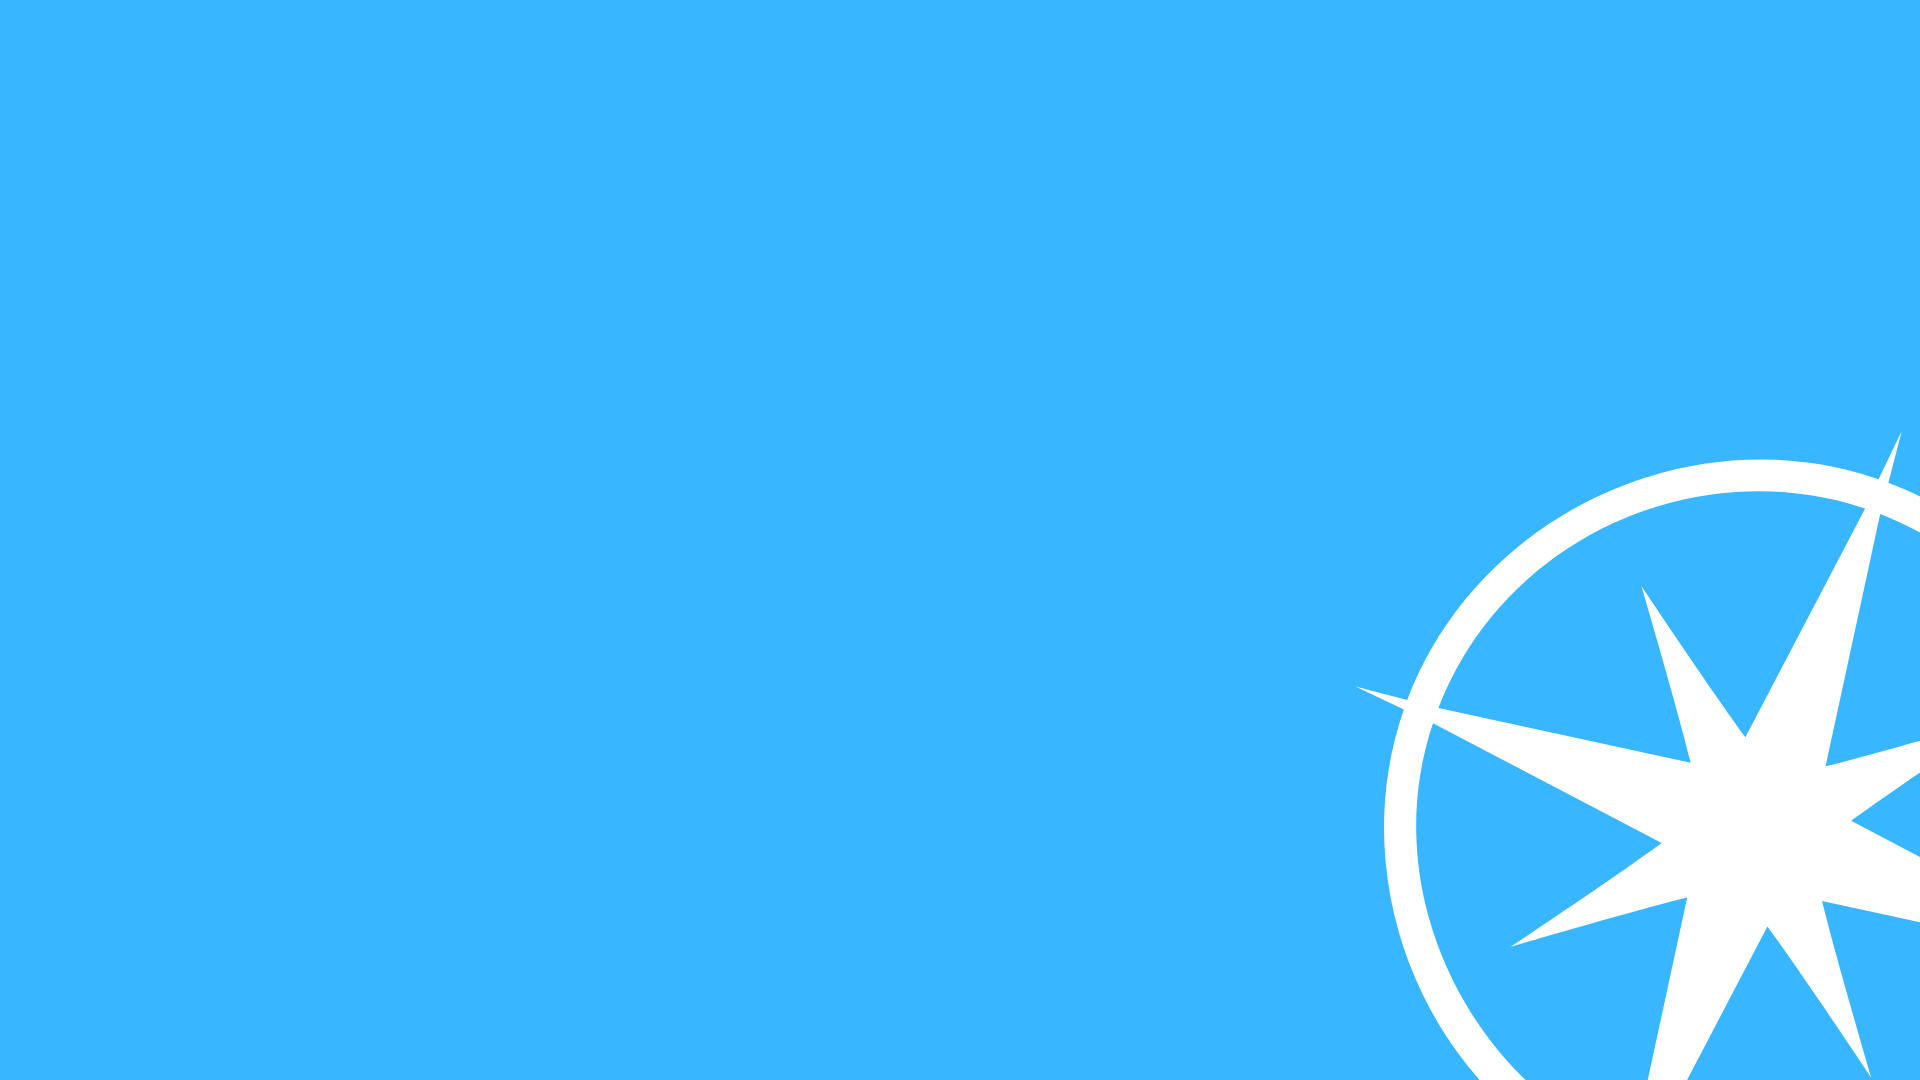
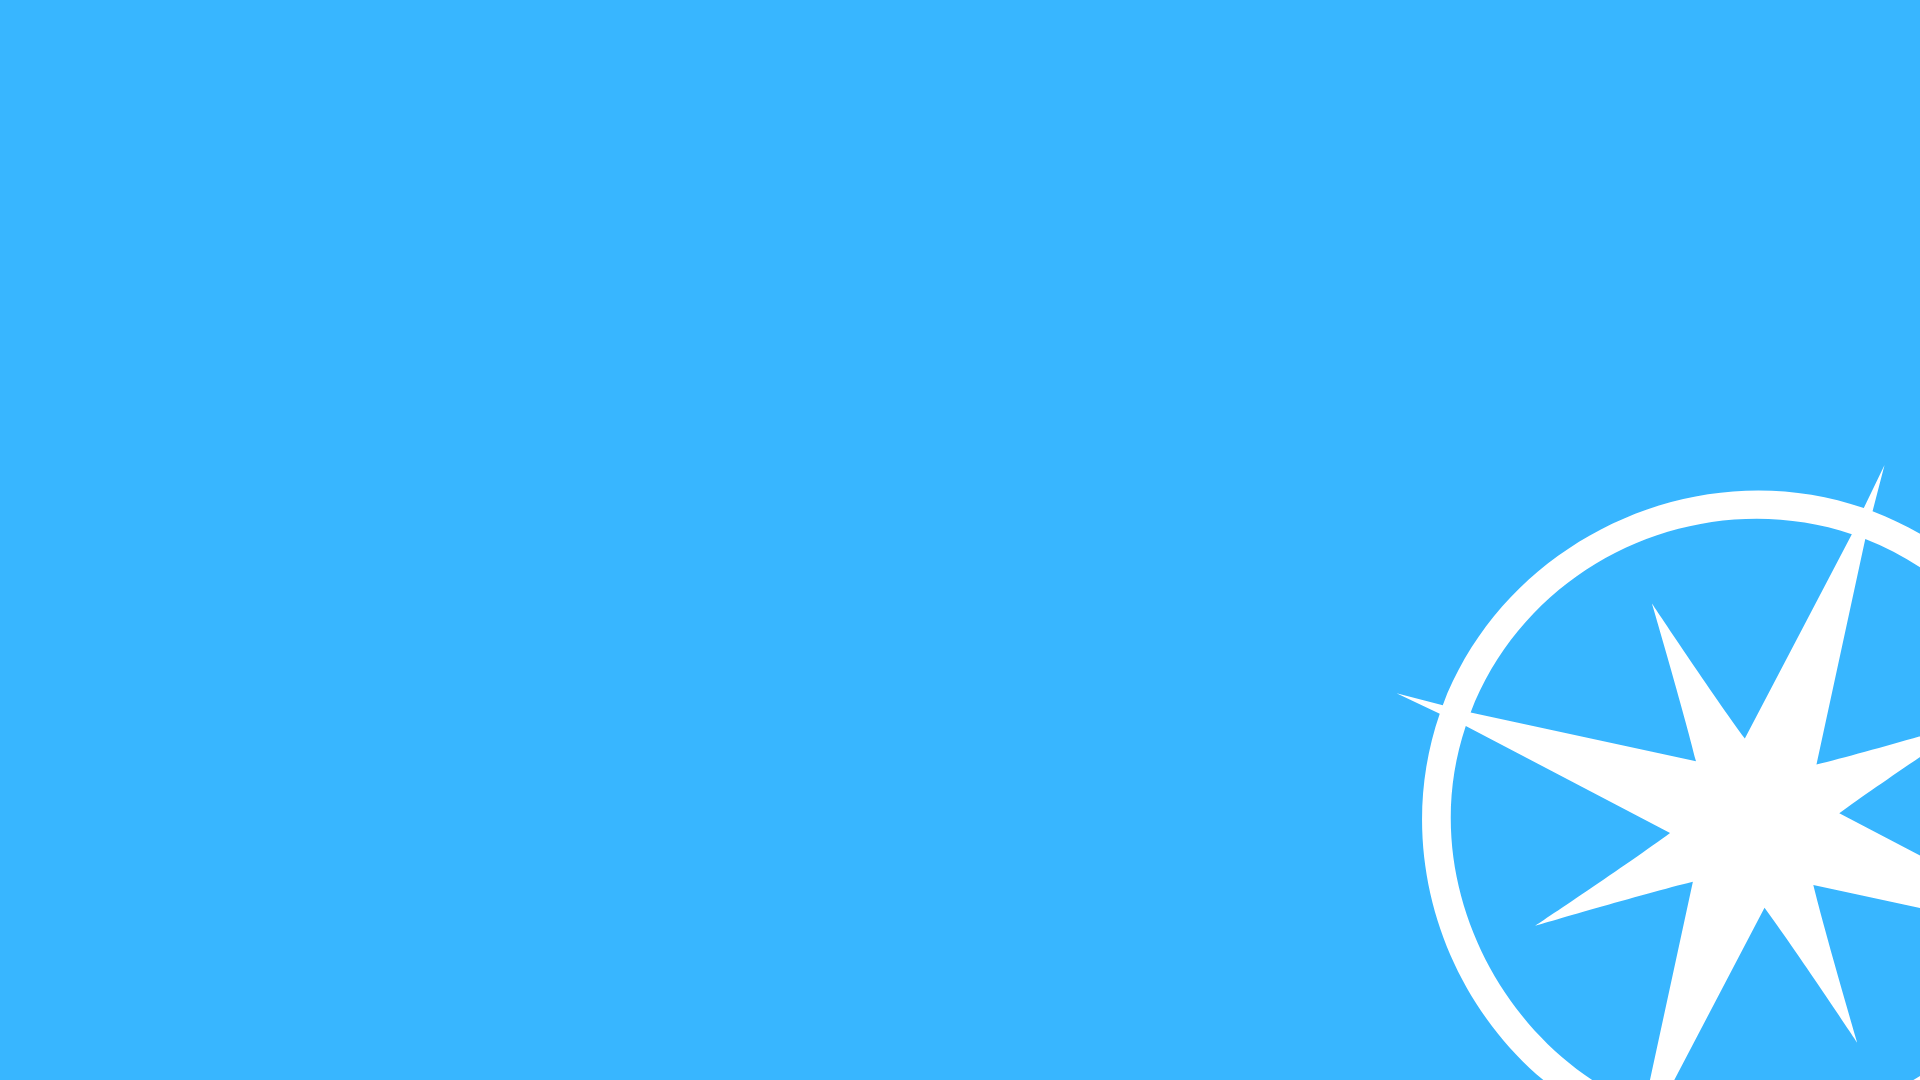
prettier sign up screen. need some improvements

diff --git a/src/assets/css/user-register.css b/src/assets/css/user-register.css
@@ -1,0 +1,94 @@
+* {
+    margin: 0;
+    padding: 0;
+    box-sizing: border-box;
+}
+
+body {
+    background-image: url('../media/background.png');
+    font-family: "Urbanist", sans-serif !important;
+    background-repeat: no-repeat;
+    background-attachment: fixed;
+    background-size: 100%;
+    background-size: cover;
+    background-position: center;
+    background-repeat: no-repeat;
+    display: flex;
+    justify-content: center;
+    align-items: center;
+    min-height: 100vh;
+    margin: 0;
+}
+
+a {
+    text-decoration: none;
+}
+
+.register {
+    color: white;
+    background-color: rgba(0, 0, 0, 0.7);
+    box-shadow: 5px 5px 10px rgba(0, 0, 0, 0.5);
+    border-radius: 25px;
+    position: relative;
+    text-shadow: 5px 5px 10px rgba(0, 0, 0, 0.1);
+}
+
+.custom-blue {
+    background-color: #429fc7;
+}
+
+.bi-eye {
+    color: rgb(11, 255, 44);
+    position: absolute;
+    top: 61%;
+    left: 41%;
+}
+
+.bi-eye-slash {
+    color: rgb(255, 11, 11);
+    position: absolute;
+    top: 61%;
+    left: 41%;
+}
+
+
+.password-strength {
+    height: 5px;
+    margin-top: 5px;
+    border-radius: 3px;
+    transition: all 0.3s ease;
+}
+
+.strength-weak {
+    background-color: #ff0202;
+    width: 33%;
+}
+
+.strength-medium {
+    background-color: #ffcd38;
+    width: 66%;
+}
+
+.strength-strong {
+    background-color: #12d440;
+    width: 100%;
+}
+
+.strength-text {
+    font-size: 0.875rem;
+    margin-top: 3px;
+    font-weight: 500;
+}
+
+.strength-weak-text {
+    color: #ff0202;
+    ;
+}
+
+.strength-medium-text {
+    color: #ffcd38;
+}
+
+.strength-strong-text {
+    color: #12d440;
+}

diff --git a/src/assets/css/login.css b/src/assets/css/login.css
@@ -1,9 +1,19 @@
+
+* {
+  margin: 0;
+  padding: 0;
+  box-sizing: border-box;
+}
+
 body {
+    background-image: url('../media/login_screen.png');
     font-family: "Urbanist", sans-serif !important;
-    background-image: url('../assets/media/login_screen.jpg');
     background-repeat: no-repeat;
     background-attachment: fixed;
     background-size: 100%;
+    background-size: cover;
+    background-position: center;
+    background-repeat: no-repeat;
     display: flex;
     justify-content: center;
     align-items: center;
@@ -13,14 +23,6 @@ body {
 
 a {
     text-decoration: none;
-}
-
-#video {
-    position: fixed;
-    right: 0;
-    bottom: 0;
-    min-width: 100%;
-    min-height: 100%;
 }
 
 .login {

diff --git a/src/assets/css/homepage.css b/src/assets/css/homepage.css
@@ -5,7 +5,11 @@
 }
 
 body {
+  background-image: url('../media/background2.png');
   font-family: "Urbanist", sans-serif !important;
+  background-repeat: no-repeat;
+  background-attachment: fixed;
+  background-size: 100%;
   background-color: #fafafa;
   transition: background-image 0.3s ease;
   background-size: cover;

diff --git a/src/pages/login.php b/src/pages/login.php
@@ -11,13 +11,6 @@
     <script src="https://cdn.jsdelivr.net/npm/bootstrap@5.3.8/dist/js/bootstrap.bundle.min.js" integrity="sha384-FKyoEForCGlyvwx9Hj09JcYn3nv7wiPVlz7YYwJrWVcXK/BmnVDxM+D2scQbITxI" crossorigin="anonymous"></script>
     <link rel="stylesheet" href="../assets/css/login.css">
     <title>Login</title>
-
-    <style>
-        body{
-            background-image: url('../assets/media/login_screen.png');
-        }
-    </style>
-
 </head>
 
 <body>
@@ -44,7 +37,7 @@
                         <br> <br>
                         <input type="submit" class="btn custom-blue" style="color:white;" value="Login">
                         <br><br>
-                        <p style="color:white">Do not have an account? click <b><a href="homepage.php" style="color: #429fc7">here</a></b>!</p>
+                        <p style="color:white">Do not have an account? click <b><a href="register.php" style="color: #429fc7">here</a></b>!</p>
                         <p style="color:white">Or log-in as a <b><a href="homepage.php" style="color: #429fc7">guest</a></b></p>
                     </form>
                 </div>
